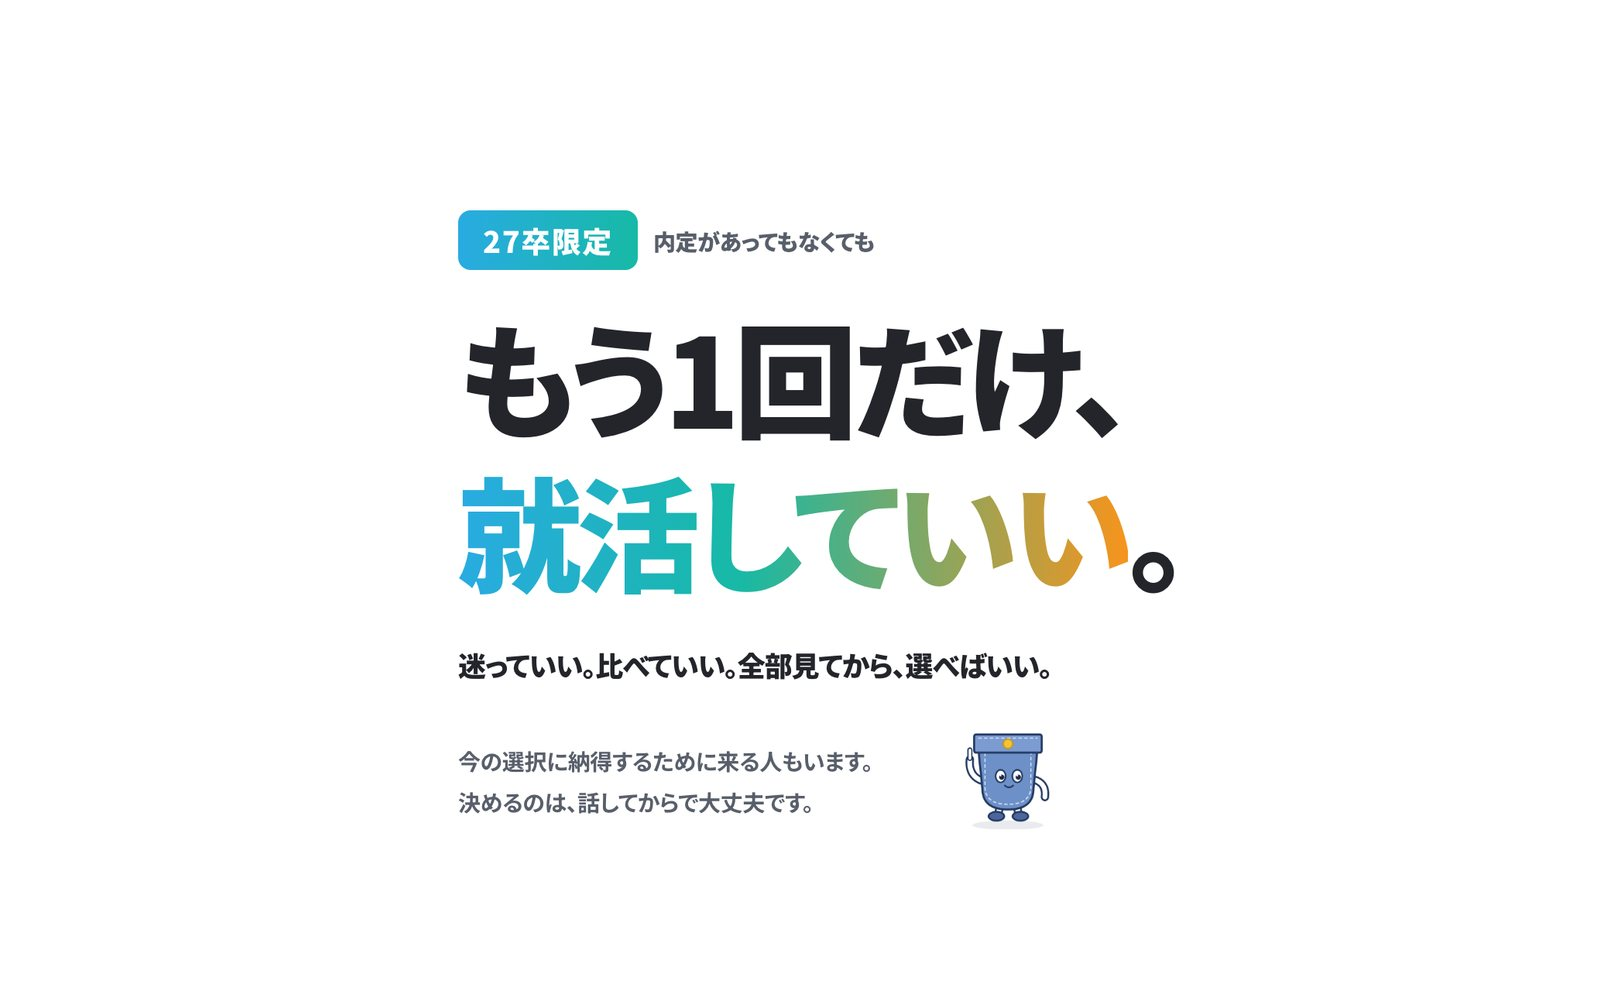
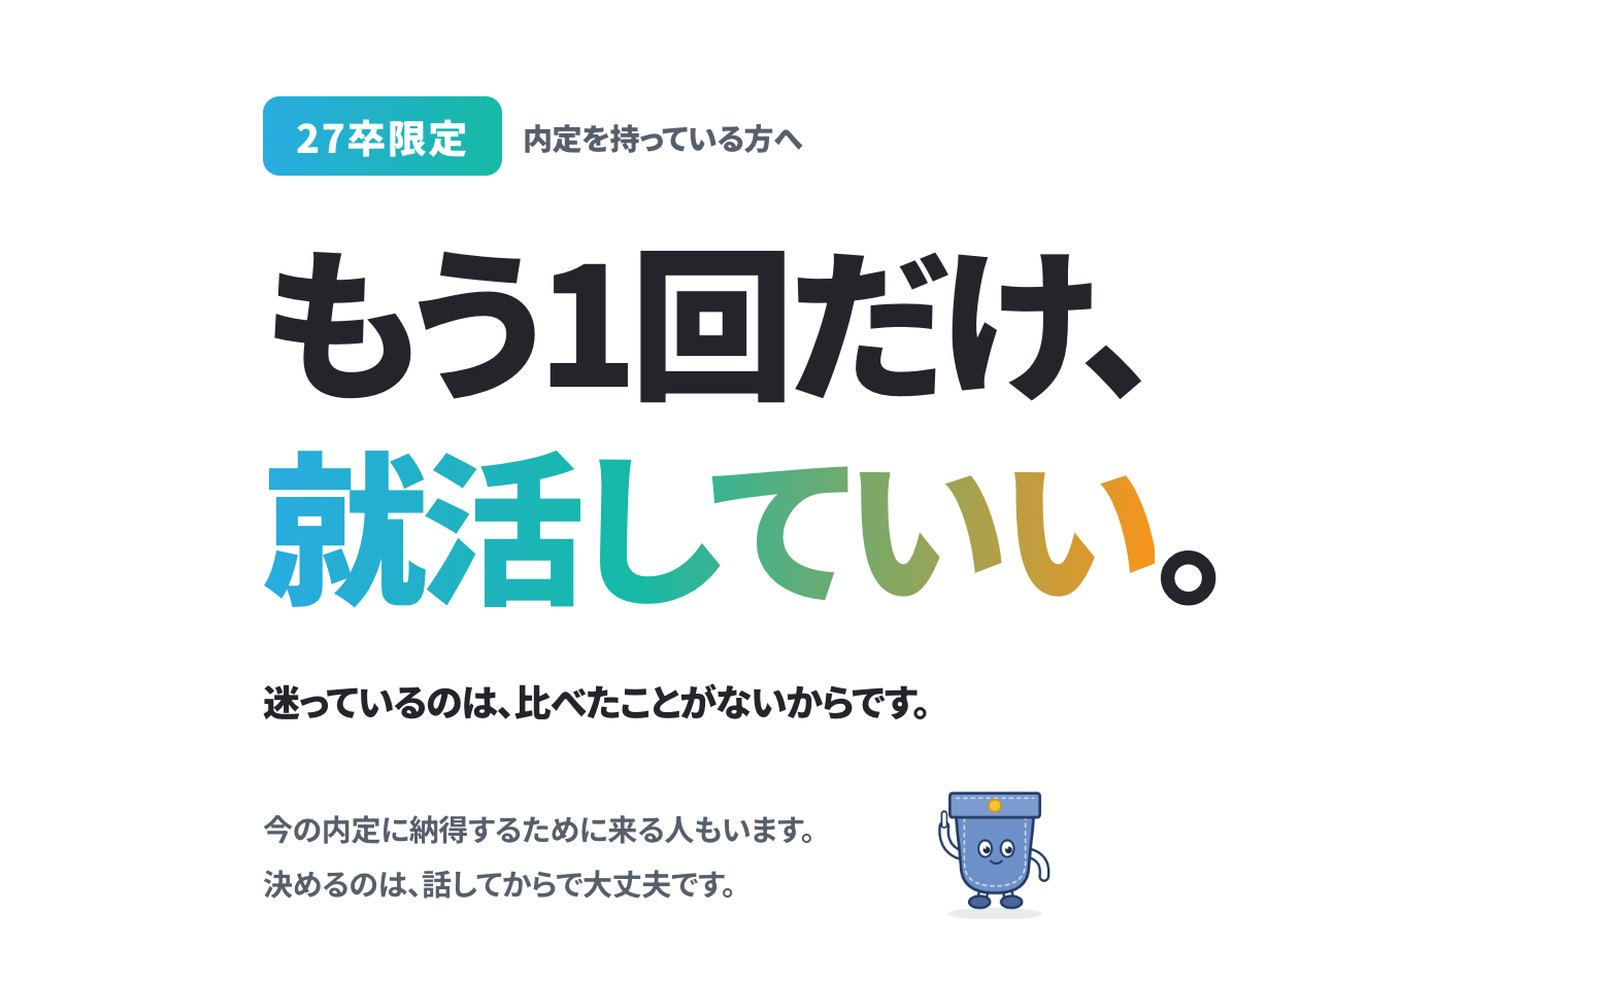
rpo: アーティファクト版（4列カード・文節改行・幅1360）に本番を揃える site/root: サービスカードの画像を、リニューアル後の各LPのFVで撮り直し

Changed region(s): [[0.1562, 0.093, 0.7812, 0.62], [0.1562, 0.651, 0.6562, 0.899], [0.5625, 0.713, 0.6562, 0.93]]

diff --git a/rpo/index.html b/rpo/index.html
@@ -11,11 +11,9 @@
 <title>AOHARU RPO｜新卒採用に特化したRPO（採用代行）</title>
 <meta name="description" content="新卒採用に、ハイタッチを。AOHARU RPOは新卒採用だけに特化した採用代行です。採用戦略から面接・クロージング・内定者フォロー・入社後の研修まで、代表が責任者として並走します。">
 <link rel="canonical" href="https://aoharu-intern.worcry.com/rpo/">
-<link rel="icon" href="favicon.svg?v=2" type="image/svg+xml">
-<link rel="icon" type="image/png" sizes="32x32" href="icon-32.png?v=2">
-<link rel="icon" type="image/png" sizes="16x16" href="icon-16.png?v=2">
-<link rel="icon" type="image/png" sizes="192x192" href="icon-192.png?v=2">
-<link rel="apple-touch-icon" href="apple-touch-icon.png?v=2">
+<link rel="icon" type="image/png" sizes="32x32" href="icon-32.png">
+<link rel="icon" type="image/png" sizes="16x16" href="icon-16.png">
+<link rel="apple-touch-icon" href="apple-touch-icon.png">
 <meta name="theme-color" content="#26272D">
 <meta property="og:type" content="website">
 <meta property="og:site_name" content="AOHARU RPO">
@@ -46,7 +44,7 @@
 *{box-sizing:border-box}
 html{scroll-behavior:auto}
 body{margin:0;background:var(--paper);color:var(--ink);font-family:var(--ja);font-size:15px;line-height:1.9;
-  padding:var(--gut);padding-bottom:calc(var(--gut) + 8px);-webkit-font-smoothing:antialiased;overflow-x:hidden}
+  padding-block:var(--gut) calc(var(--gut) + 8px);padding-left:max(var(--gut),env(safe-area-inset-left,0px));padding-right:max(var(--gut),env(safe-area-inset-right,0px));color-scheme:light;-webkit-font-smoothing:antialiased;overflow-x:hidden}
 h1,h2,h3,p{word-break:auto-phrase;line-break:strict}
 h1,h2,h3{text-wrap:balance}
 img{max-width:100%;display:block}
@@ -1049,7 +1047,7 @@ details p{margin:0 0 24px;padding-left:34px;color:var(--ink-soft);font-size:14.5
         <a href="https://aoharu-intern.com/long-intern/">AOHARU インターン</a>
         <a href="https://aoharu-intern.com/shinsotsu/">AOHARU 新卒</a>
         <a href="https://aoharu-intern.com/shinsotsu-re/">AOHARU 新卒Re</a>
-        <a href="https://aoharu-intern.com/rpo/">AOHARU RPO</a>
+        <a href="https://aoharu-intern.worcry.com/rpo/">AOHARU RPO</a>
       </div>
       <div class="nft-col">
         <div class="nft-col-ttl">会社情報</div>
